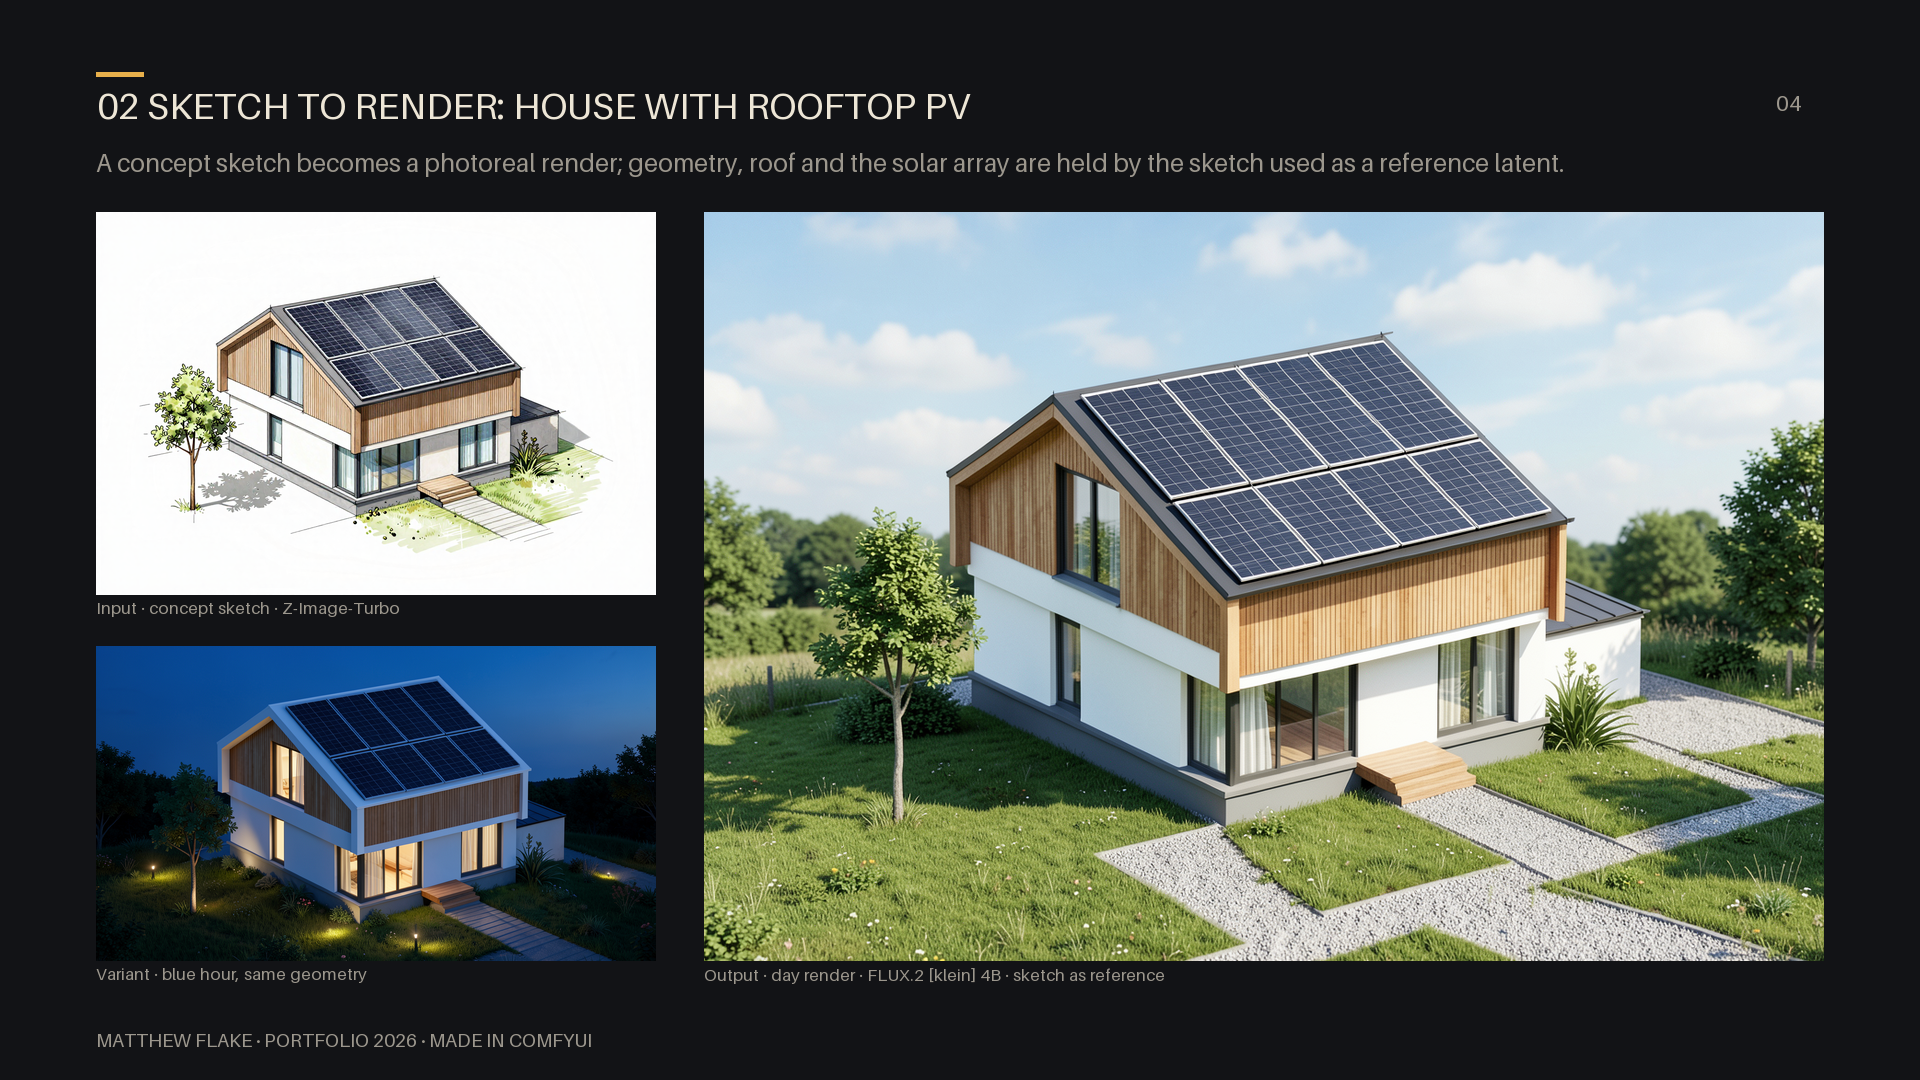
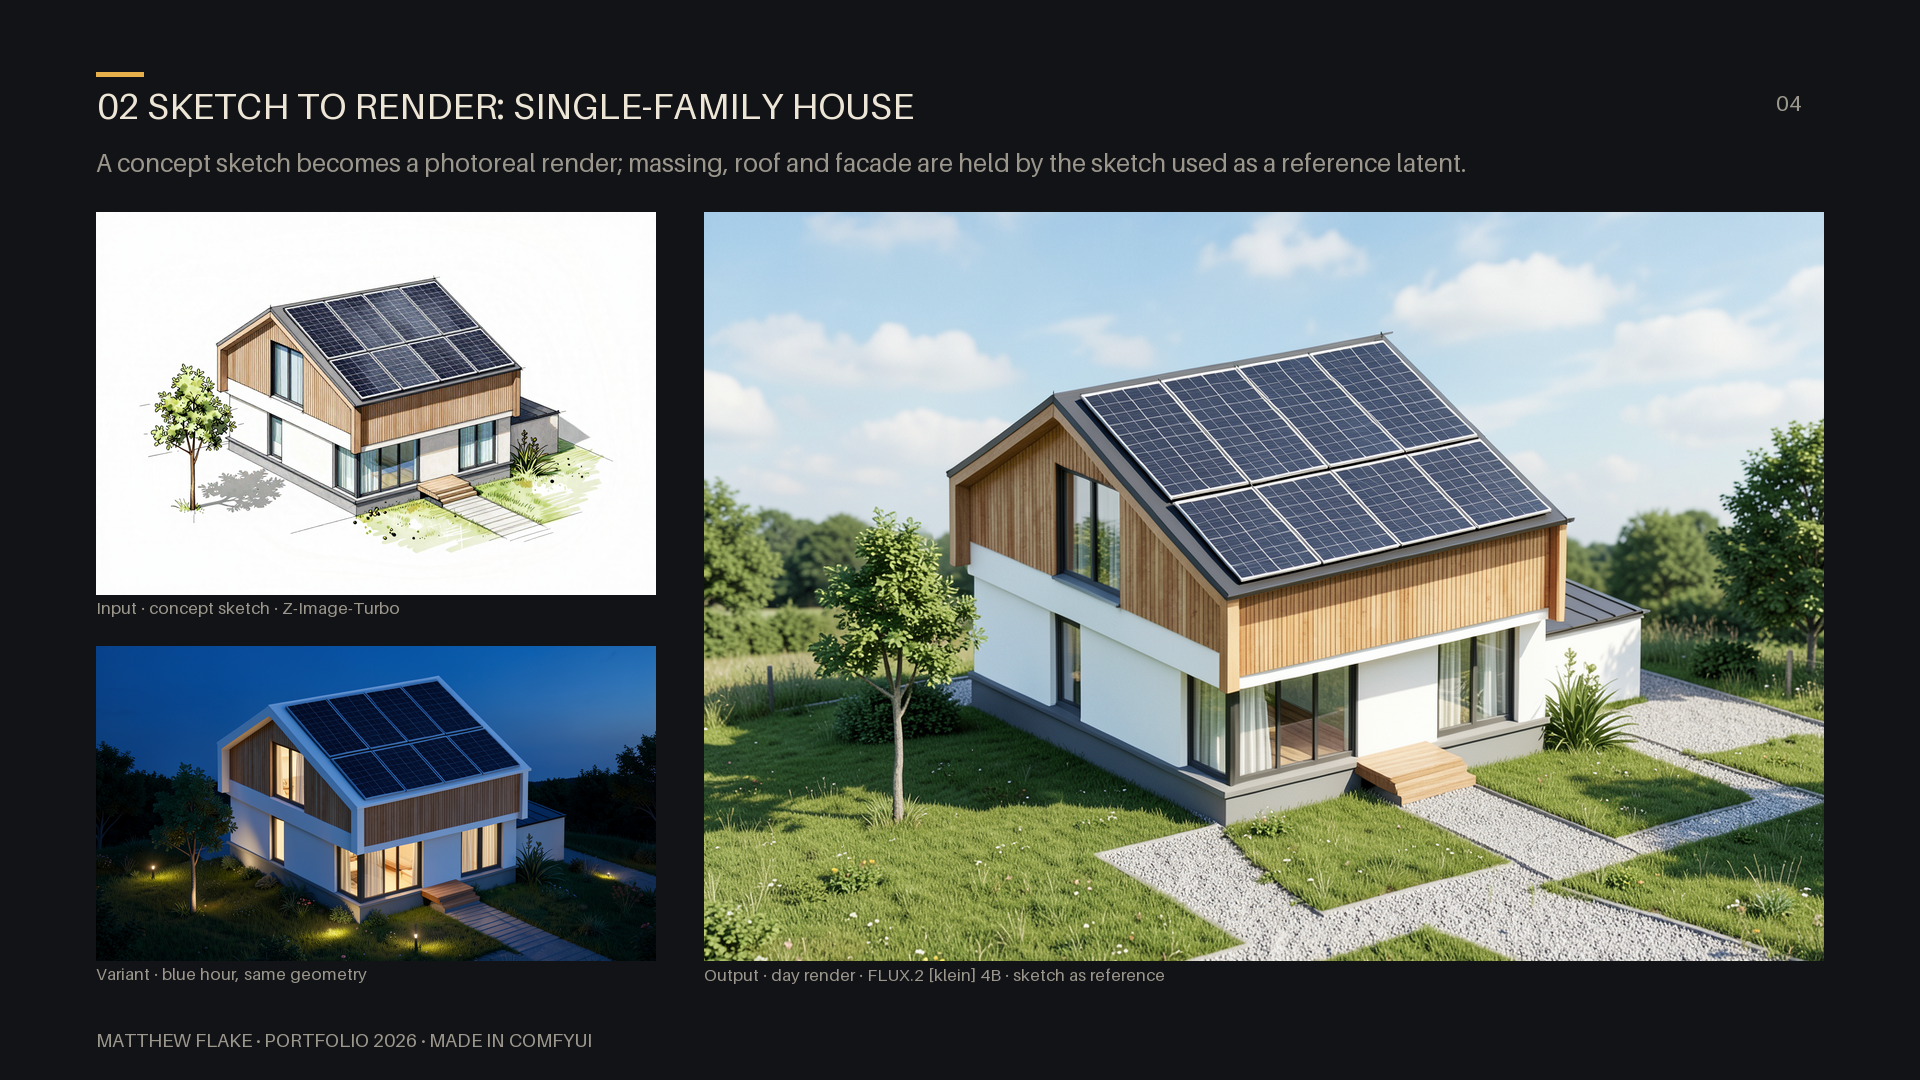
Rename house project to single-family house
Claude-Session: https://claude.ai/code/session_01Bzz1rjQjP9awTHXrasNJjv

Changed region(s): [[0.25, 0.0611, 0.8125, 0.1833]]

diff --git a/README.md b/README.md
@@ -14,8 +14,8 @@ I designed one original character from a text brief and generated a three-view t
 ![Character sheet](pages/02_character_sheet.png)
 ![Character scenes](pages/03_character_scenes.png)
 
-### 02 · Sketch to render: house with rooftop PV
-A concept sketch is used as the reference for a photoreal day render and a blue-hour variant. The geometry, roof pitch and solar array layout carry over from the sketch.
+### 02 · Sketch to render: single-family house
+A concept sketch is used as the reference for a photoreal day render and a blue-hour variant. The massing, roof pitch and facade carry over from the sketch.
 
 ![Arch viz](pages/04_arch_viz.png)
 
